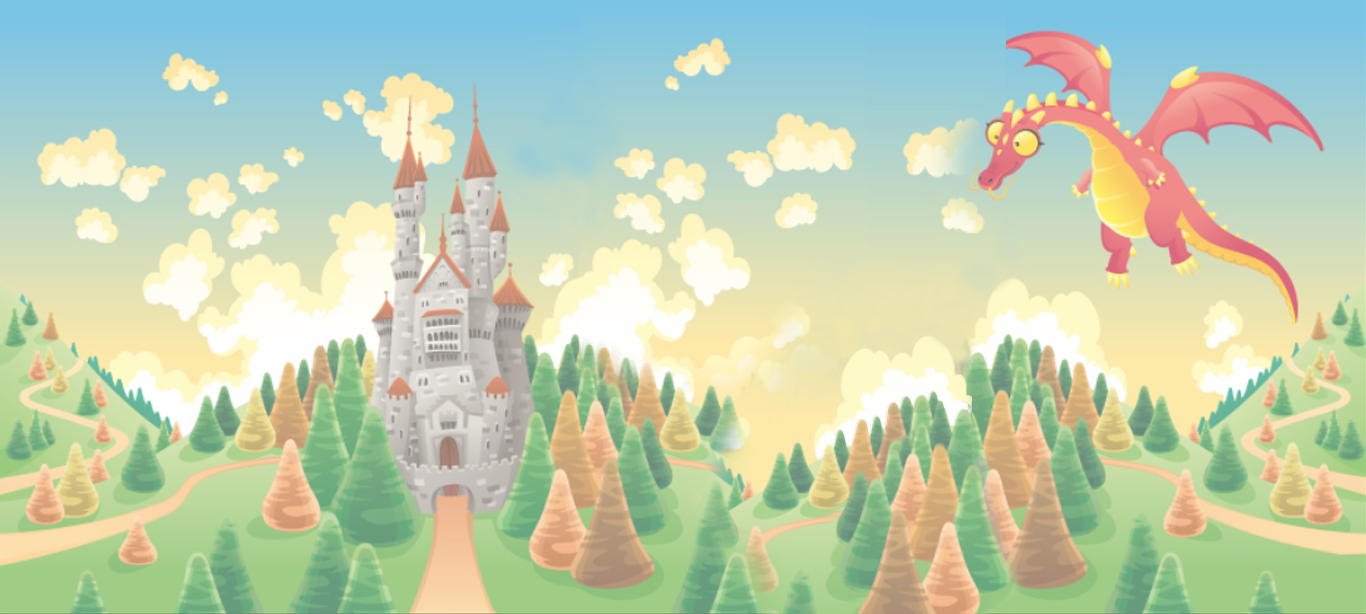
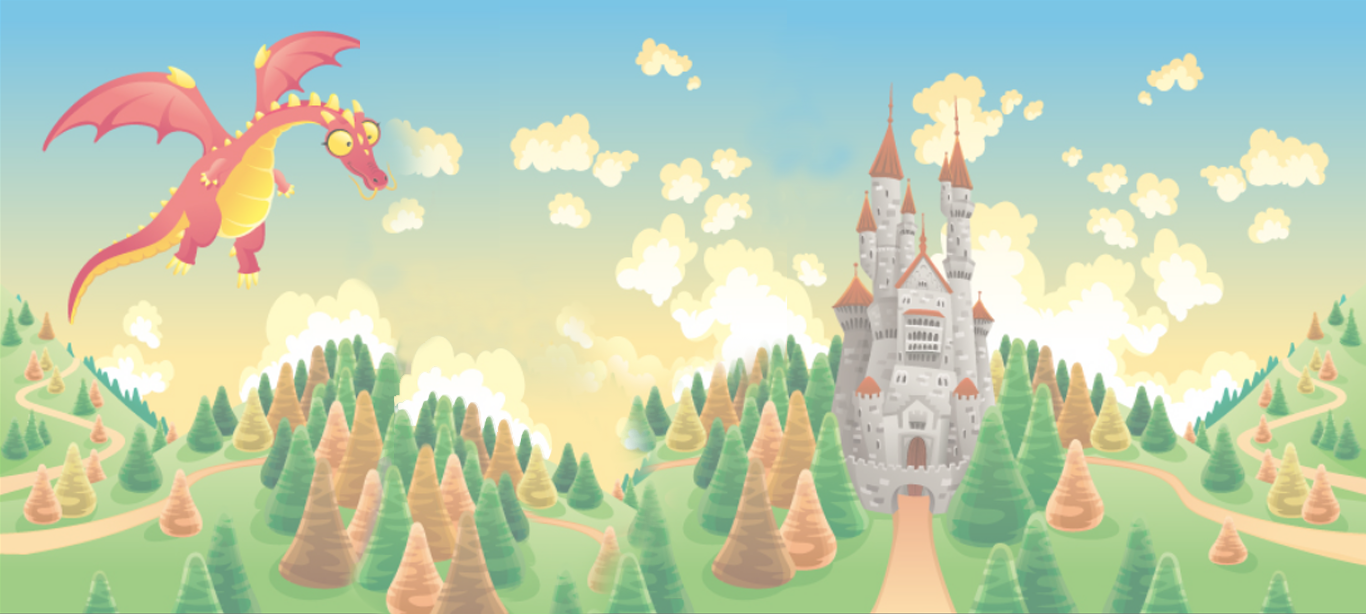
Se agregaron "logros" (utilizando mock de BD)

diff --git a/assets/templates/game.html b/assets/templates/game.html
@@ -31,7 +31,7 @@
 						<img id="btnTale" src="images/iconos/btn_talentos.png" style="margin-left: -4px;"/>
 						<img id="btnPers" src="images/iconos/btn_personaje.png" style="margin-left: -4px;"/>
 					</div>
-					<img class="capaSup" id="audio" src="images/iconos/audio_on.png" style="position: absolute; bottom: 4px; right: 4px"/>
+					<img class="capaSup" id="audio" src="images/iconos/audio_OFF.png" style="position: absolute; bottom: 4px; right: 4px"/>
 
 					<!--INVENTARIO-->
 					<div id="inv" class="div-panel" ng-controller="inventarioContr" style="background: url('images/iconos/inventario2.png')">
@@ -56,10 +56,20 @@
 					</div>
 
 					<!--LOGROS-->
-					<div id="log" class="div-panel" style="background: url('images/iconos/logros2.png')">
+					<div id="log" class="div-panel" ng-controller="listaLogros" style="background: url('images/iconos/logros2.png')">
 						<p class="capaSup titulo-botonera">
 							Logros
 						</p>
+						<div id="items" style="margin: 43px 7px 0px 9px; overflow-y: auto; width: 293px; height: 243px">
+							<table>
+								<tbody>
+									<tr ng-repeat="x in logros">
+										<td> <img ng-src="{{x.sprite}}"></td>
+										<td>{{ x.tituloLogro }}</td>
+									</tr>
+								</tbody>
+							</table>
+						</div>
 					</div>
 
 					<!--TALENTOS-->

diff --git a/assets/js/juego/logros.js b/assets/js/juego/logros.js
@@ -1,0 +1,36 @@
+//Mock de la Guia de misiones (hasta que implementemos BD)
+app.controller("listaLogros", ['$scope', "$sailsBind",
+function listaLogros($scope, $sailsBind) {
+
+	$scope.logros = [{
+		"id" : 1,
+		"tituloLogro" : "Bienvenido a Clases y Aventuras: Inicio de Juego",
+		"progresivo" : false,
+		"sprite" : "../images/logros/1.png"
+	}, {
+		"id" : 2,
+		"tituloLogro" : "Ahorrador: Conseguiste 1 oro",
+		"progresivo" : true,
+		"sprite" : "../images/logros/5.png"
+	}, {
+		"id" : 3,
+		"tituloLogro" : "Ahorrador: Conseguiste 50 oros",
+		"progresivo" : true,
+		"sprite" : "../images/logros/4.png"
+	}, {
+		"id" : 4,
+		"tituloLogro" : "Misiones: Completaste 1 Mision",
+		"progresivo" : true,
+		"sprite" : "../images/logros/3.png"
+	},{
+		"id" : 5,
+		"tituloLogro" : "Mision: Completaste 25 misiones",
+		"progresivo" : true,
+		"sprite" : "../images/logros/3.png"
+	}, {
+		"id" : 6,
+		"tituloLogro" : "Ahorrador: Conseguiste 100 oros",
+		"progresivo" : true,
+		"sprite" : "../images/logros/4.png"
+	}];
+}]);

diff --git a/tasks/pipeline.js b/tasks/pipeline.js
@@ -54,7 +54,9 @@ var jsFilesToInject = [
     "/js/juego/minimap.js",
     "/js/juego/play.js",
     "/js/juego/chat.js",
-    "/js/juego/misiones.js",
+    "/js/juego/misiones.js", //eliminar cuando este la BD
+    "/js/juego/logros.js", //eliminar cuando este la DB
+    
 
     // WEB
     "/js/app.js",

diff --git a/assets/js/juego/hud.js b/assets/js/juego/hud.js
@@ -187,7 +187,7 @@ $(function() {
 			$("#audio").attr("src", "../images/iconos/audio_OFF.png");
 			me.audio.muteAll();
 		} else {
-			$("#audio").attr("src", "../images/iconos/audio_ON.png");
+			$("#audio").attr("src", "../images/iconos/audio_on.png");
 			me.audio.unmuteAll();
 		}
 	});

diff --git a/README.md b/README.md
@@ -77,7 +77,7 @@ Quest
 * Texto de espera,
 * minijuego,
 * Tiempo,
-* Texto de conclucion,
+* Texto de conclusion,
 * NPC,
 * Reconpensa,
 * oro,
